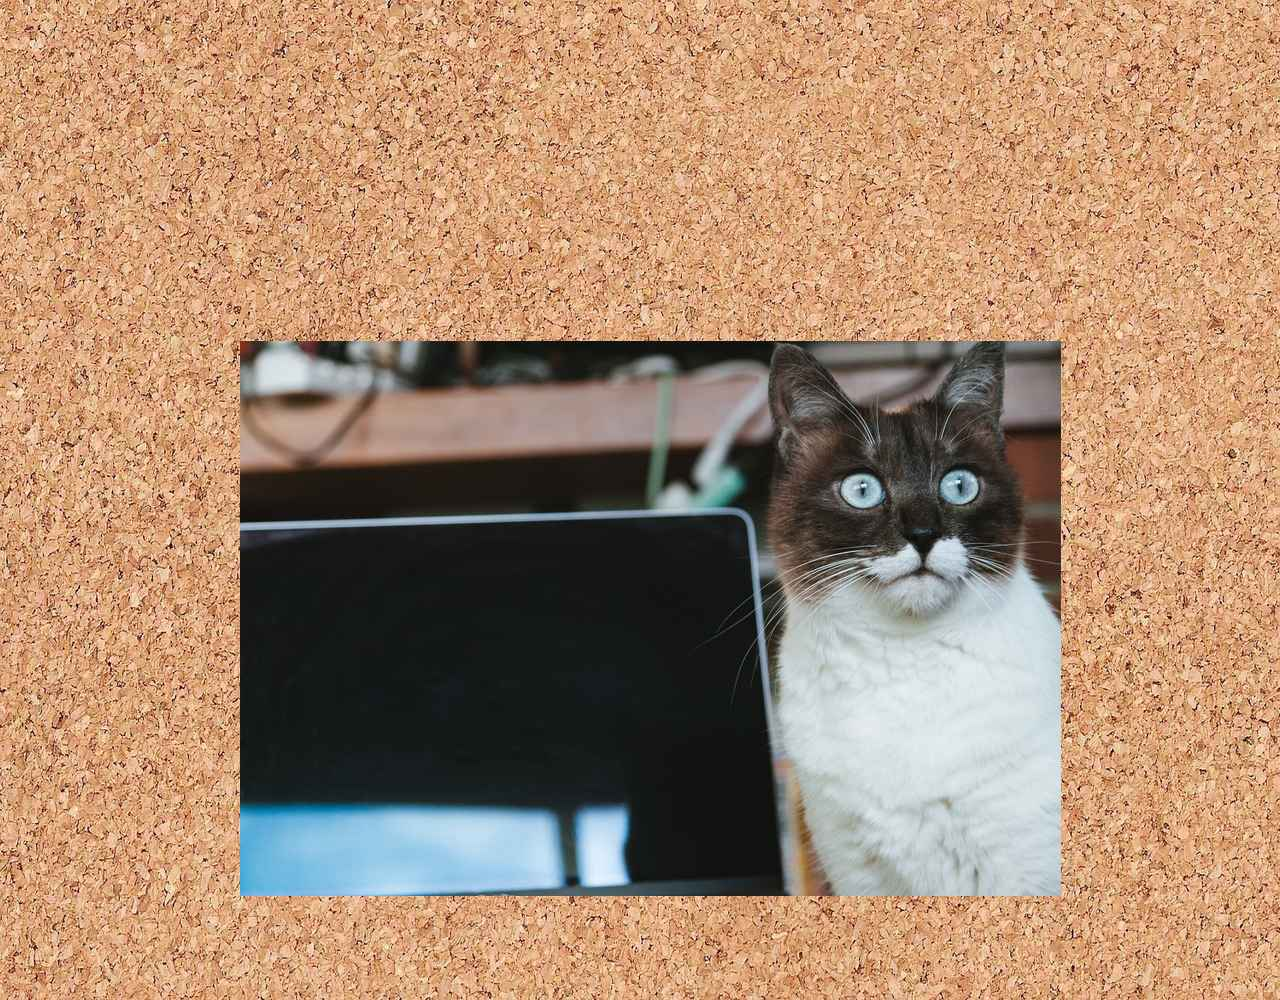
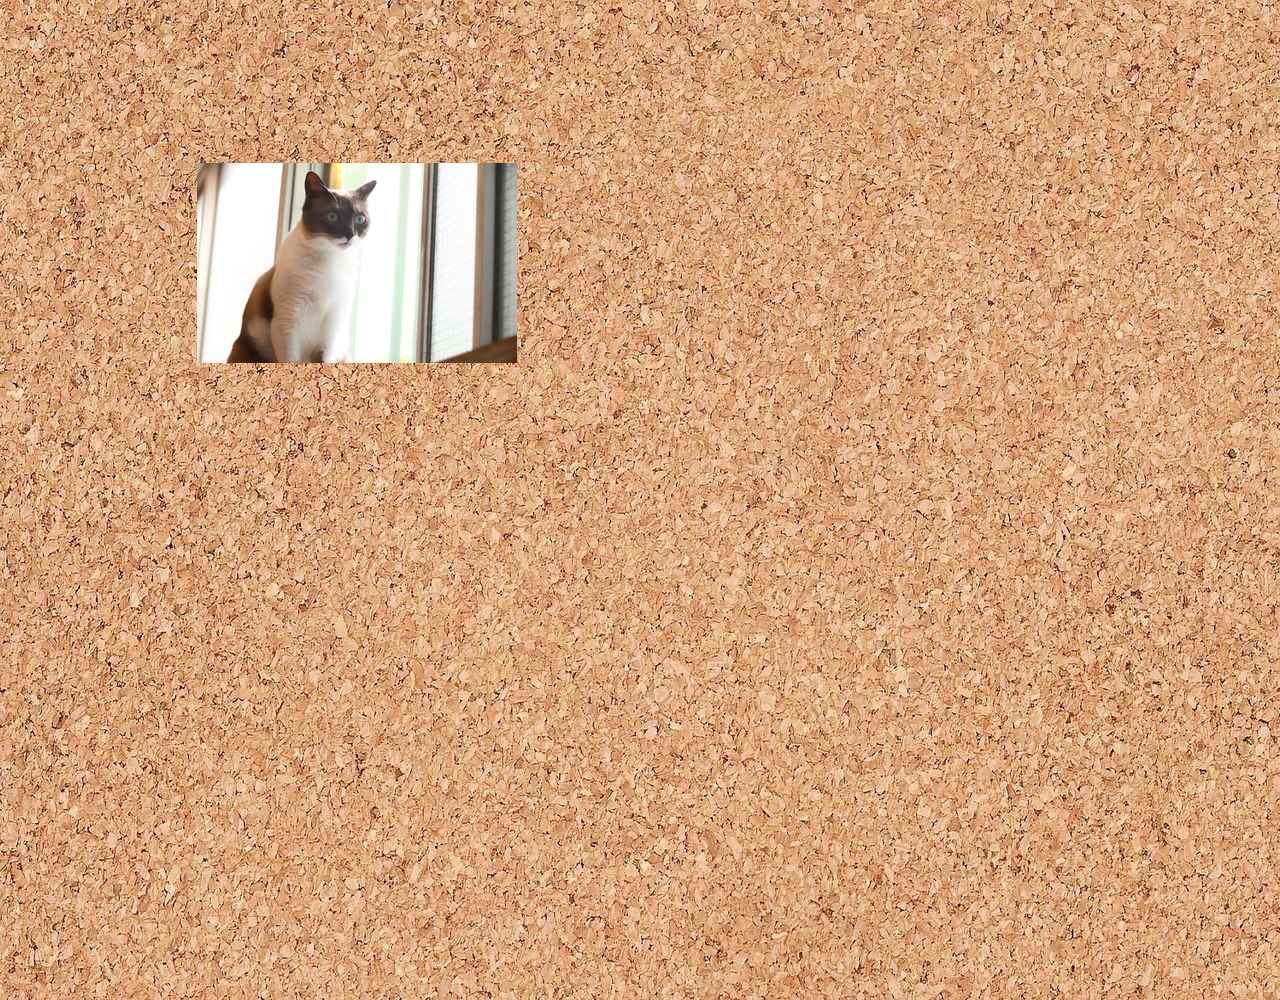
機能追加

diff --git a/app/assets/javascripts/thumbnail.js b/app/assets/javascripts/thumbnail.js
@@ -64,6 +64,15 @@ $(document).on('turbolinks:load',function(event){
  });
   //画像ファイルプレビュー表示のイベント追加 fileを選択時に発火するイベントを登録
   $('form').on('change', 'input[type="file"]', function(e) {
+    var image_is_background = false;
+        image_width = "320px";
+        image_height = "200px";
+
+    if((index+1)== 5) {
+      image_is_background = true;
+      image_width = parseInt($('.preview').css('width'));
+      image_height = parseInt($('.preview').css('height'));
+    }
 
     var file = e.target.files[0];
         reader = new FileReader();
@@ -84,8 +93,8 @@ $(document).on('turbolinks:load',function(event){
         // .prevewの領域の中にロードした画像を表示するimageタグを追加
         $preview.append($('<img>').attr({
                   src: e.target.result,
-                  width: "320px",
-                  height: "200px",
+                  width: image_width,
+                  height: image_height,
                   class: "img",
                   title: file.name
               }));
@@ -103,13 +112,14 @@ $(document).on('turbolinks:load',function(event){
 
             //console.log(data);
         //読み込み後に画像の移動とリサイズが可能
+        if(image_is_background == false){
         $('.img').resizable({
           containment: ".preview",
         });
         $preview.draggable({
           containment: ".preview",
-
         });
+      };
       };
     })(file);
 

diff --git a/app/assets/stylesheets/prototypes.scss b/app/assets/stylesheets/prototypes.scss
@@ -114,22 +114,31 @@ box-shadow: 0 0 2px rgba(0, 0, 0, 0.30);
 .material_1{
 	left:0;
 	top:0;
+  z-index: 1;
 }
 
 .material_2{
   left:320px;
 	top:0;
+  z-index: 1;
 }
 
 .material_3{
   left:0;
 	top:200px;
+  z-index: 1;
 }
 
 .material_4{
   left:320px;
 	top:200px;
+  z-index: 1;
 }
+
+.material_5{
+  z-index: 0;
+}
+
 
 
 

diff --git a/app/controllers/prototypes_controller.rb b/app/controllers/prototypes_controller.rb
@@ -8,7 +8,7 @@ class PrototypesController < ApplicationController
 
   def new
     @prototype = Prototype.new
-    4.times { @prototype.thumbnails.build }
+    5.times { @prototype.thumbnails.build }
   end
 
   def create
